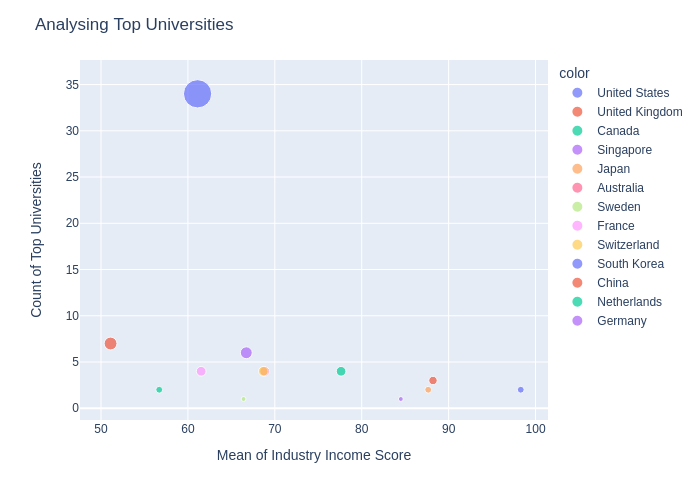
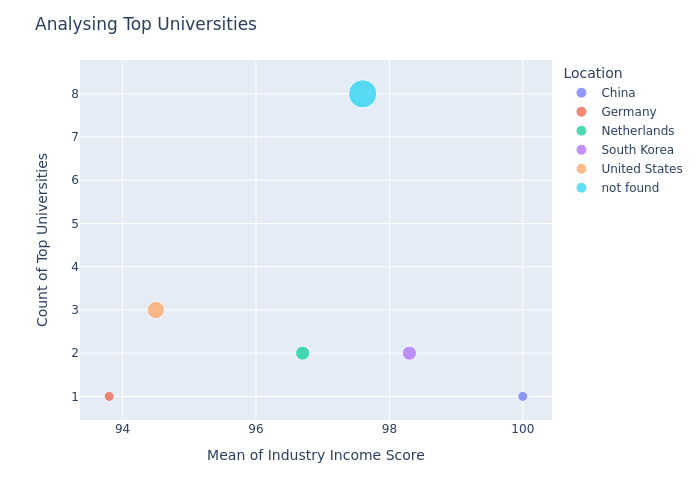
made graph with sql

diff --git a/test_graph.py b/test_graph.py
@@ -1,24 +1,21 @@
-import polars as pl
+import pandas as pd
 import plotly.express as px
+import sqlite3
 import os
+con = sqlite3.connect('ranking.db')
 
-url = "https://github.com/nogibjj/IDS706-Individual_Project_1_us26/blob/main/Ranking.csv?raw=true"
+def visualization(con):
+    result1 = pd.read_sql_query("SELECT Location, COUNT(`University Rank`) AS RankCount FROM universities GROUP BY Location", con=con)
+    result2 = pd.read_sql_query("SELECT Location, AVG(`Industry Income Score`) AS Score FROM universities GROUP BY Location", con=con)
 
-dataset = pl.read_csv(url)
-
-
-def visualization(data):
-    result1 = data.group_by("Location").agg(pl.col("University Rank").count())
-    result2 = data.group_by("Location").agg(pl.col("Industry Income Score").mean())
-
-    joined = result1.join(result2, left_on="Location", right_on="Location")
+    joined = result1.merge(result2, how='inner', on='Location')
 
     fig = px.scatter(
         joined,
-        x=joined["Industry Income Score"],
-        y=joined["University Rank"],
+        x=joined["Score"],
+        y=joined["RankCount"],
         color=joined["Location"],
-        size=joined["University Rank"],
+        size=joined["RankCount"],
     )
 
     fig.update_layout(
@@ -33,6 +30,5 @@ def visualization(data):
 
     fig.write_image("output_graph/visualization.png")
 
-
 if __name__ == "__main__":
-    visualization(dataset)
+    visualization(con)
